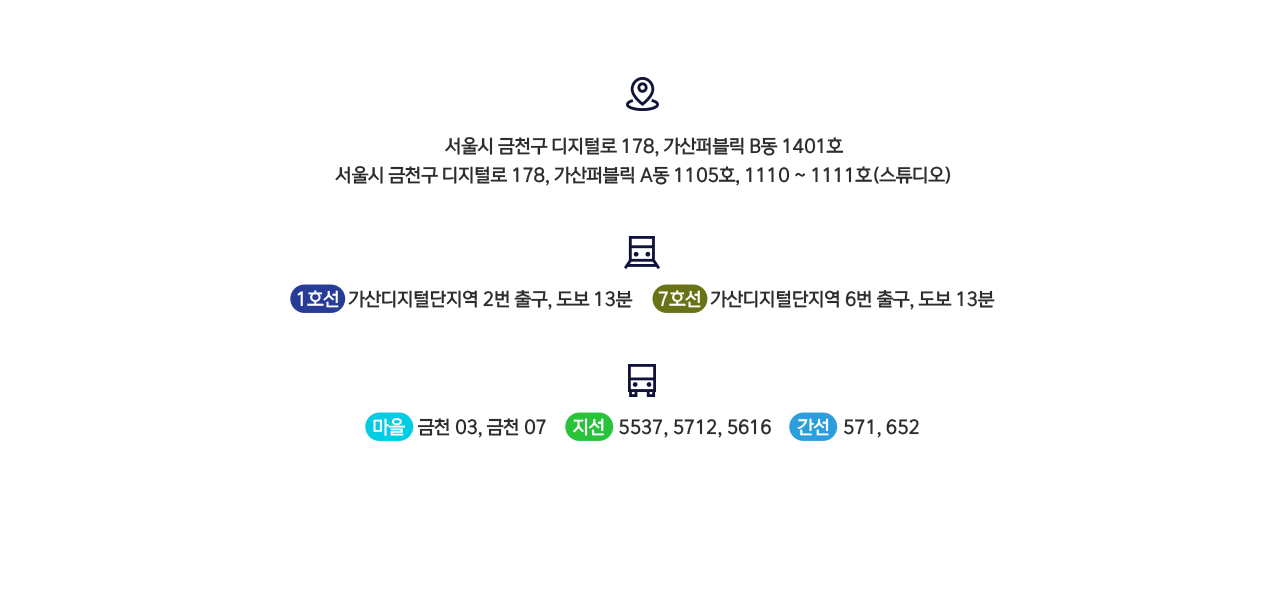
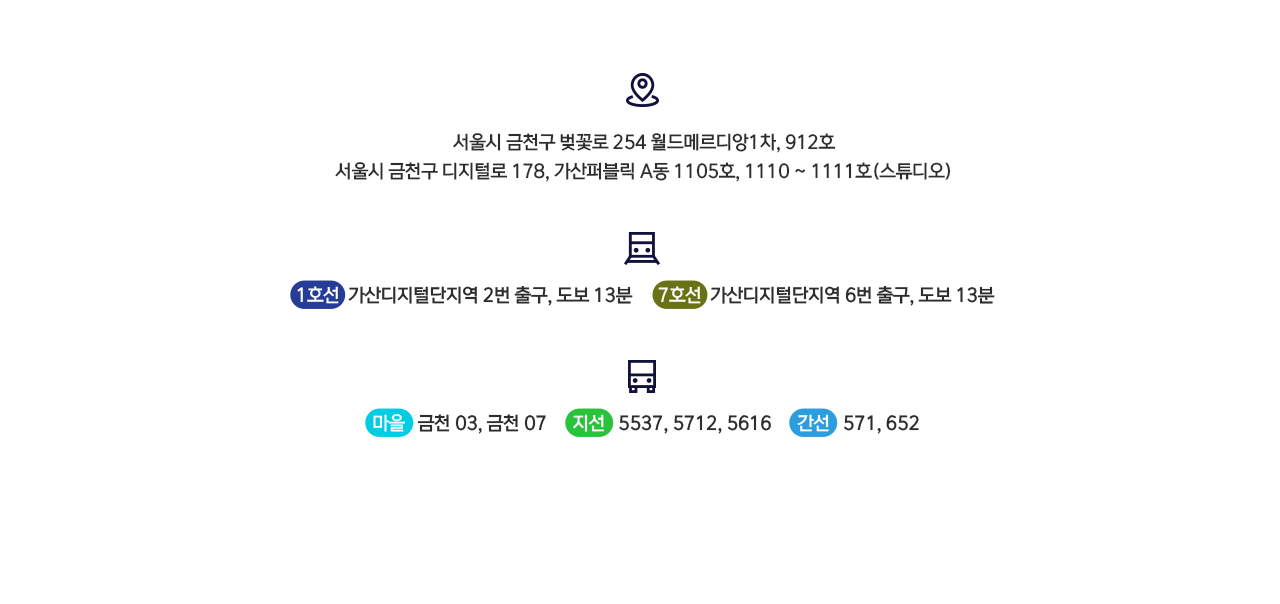
주소지 수정

diff --git a/common/js/main.js b/common/js/main.js
@@ -612,10 +612,9 @@ function setLocationPage() {
           <!-- 지도 삽입 -->
           <div class="map-embed-container">
             <div class="map-loading">지도를 불러오는 중...</div>
-            <iframe
-              src="https://www.google.com/maps/embed?pb=!1m18!1m12!1m3!1d1331.2726296593441!2d126.88693849162053!3d37.4768270442357!2m3!1f0!2f0!3f0!3m2!1i1024!2i768!4f13.1!3m3!1m2!1s0x357b6100118f9ac3%3A0xc3e406ca227ee7e!2z7Y2867iU66atIOqwgOyCsA!5e0!3m2!1sko!2skr!4v1750375926441!5m2!1sko!2skr"
-              width="100%" height="700px" style="border:0;" allowfullscreen="" loading="lazy"
-              referrerpolicy="no-referrer-when-downgrade" onload="document.querySelector('.map-loading').style.display='none'"></iframe>
+            <iframe src="https://www.google.com/maps/embed?pb=!1m18!1m12!1m3!1d3166.2781473252644!2d126.88290820526326!3d37.47776212921272!2m3!1f0!2f0!3f0!3m2!1i1024!2i768!4f13.1!3m3!1m2!1s0x357b61b3fb864173%3A0x1d8d905face322b8!2z7JuU65Oc66mU66W065SU7JWZ67Kk7LOQ7IS87YSwMeywqA!5e0!3m2!1sko!2skr!4v1773386698479!5m2!1sko!2skr"
+            width="100%" height="700" style="border:0;" allowfullscreen="" loading="lazy" referrerpolicy="no-referrer-when-downgrade" onload="document.querySelector('.map-loading').style.display='none'">
+            </iframe>
           </div>
           <div class="banner_01" id="banner_01">
             <img class="locationBanner" src="./common/img/location/banner_01.png"/>
